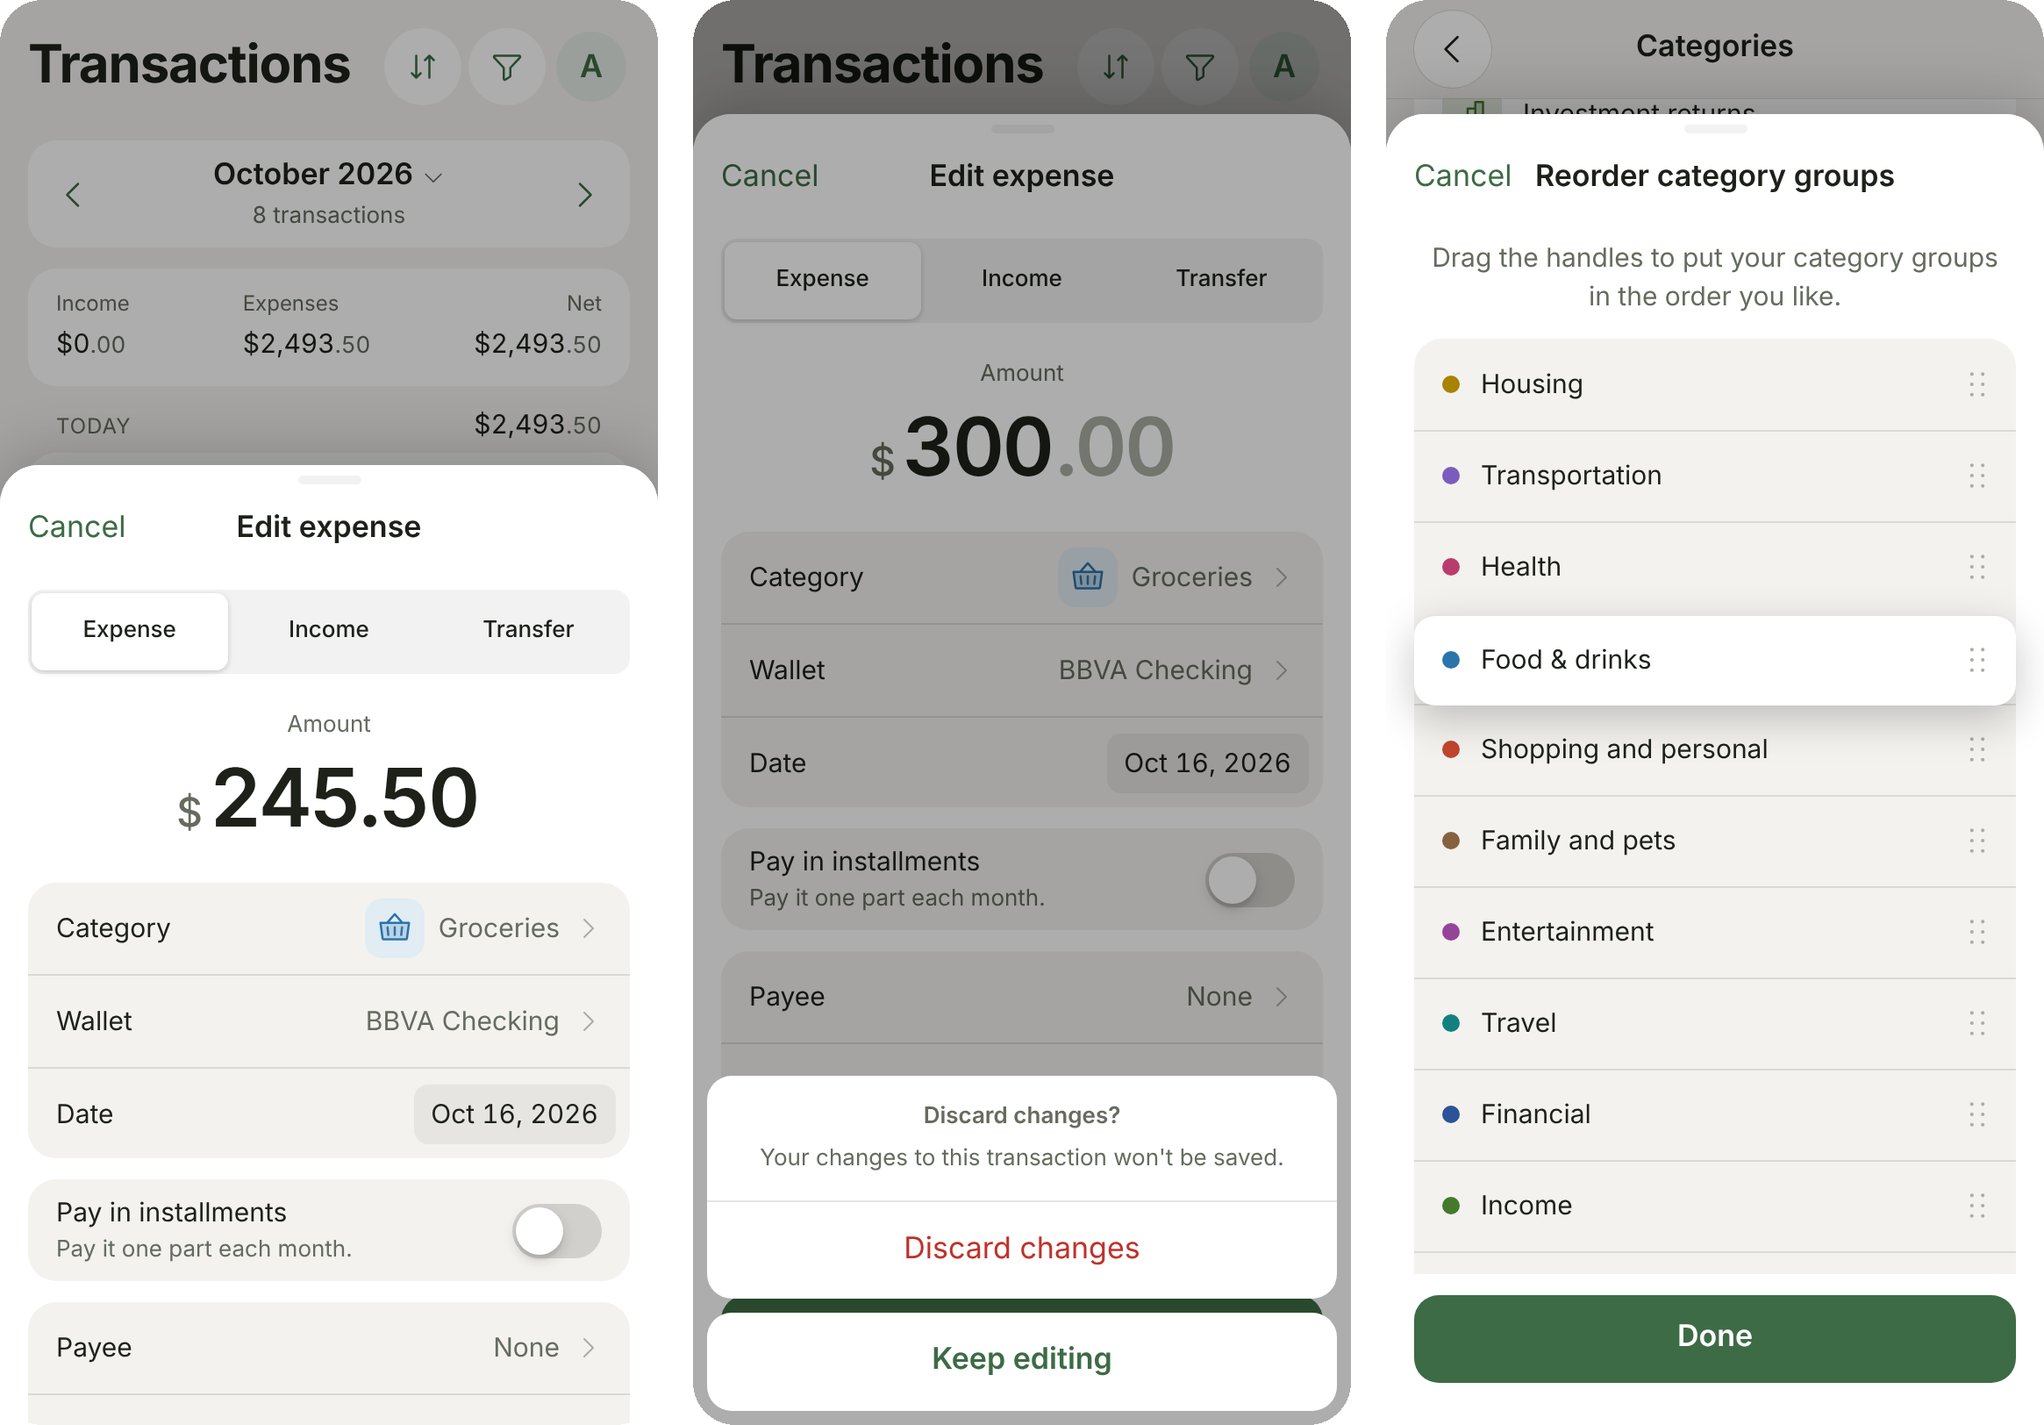
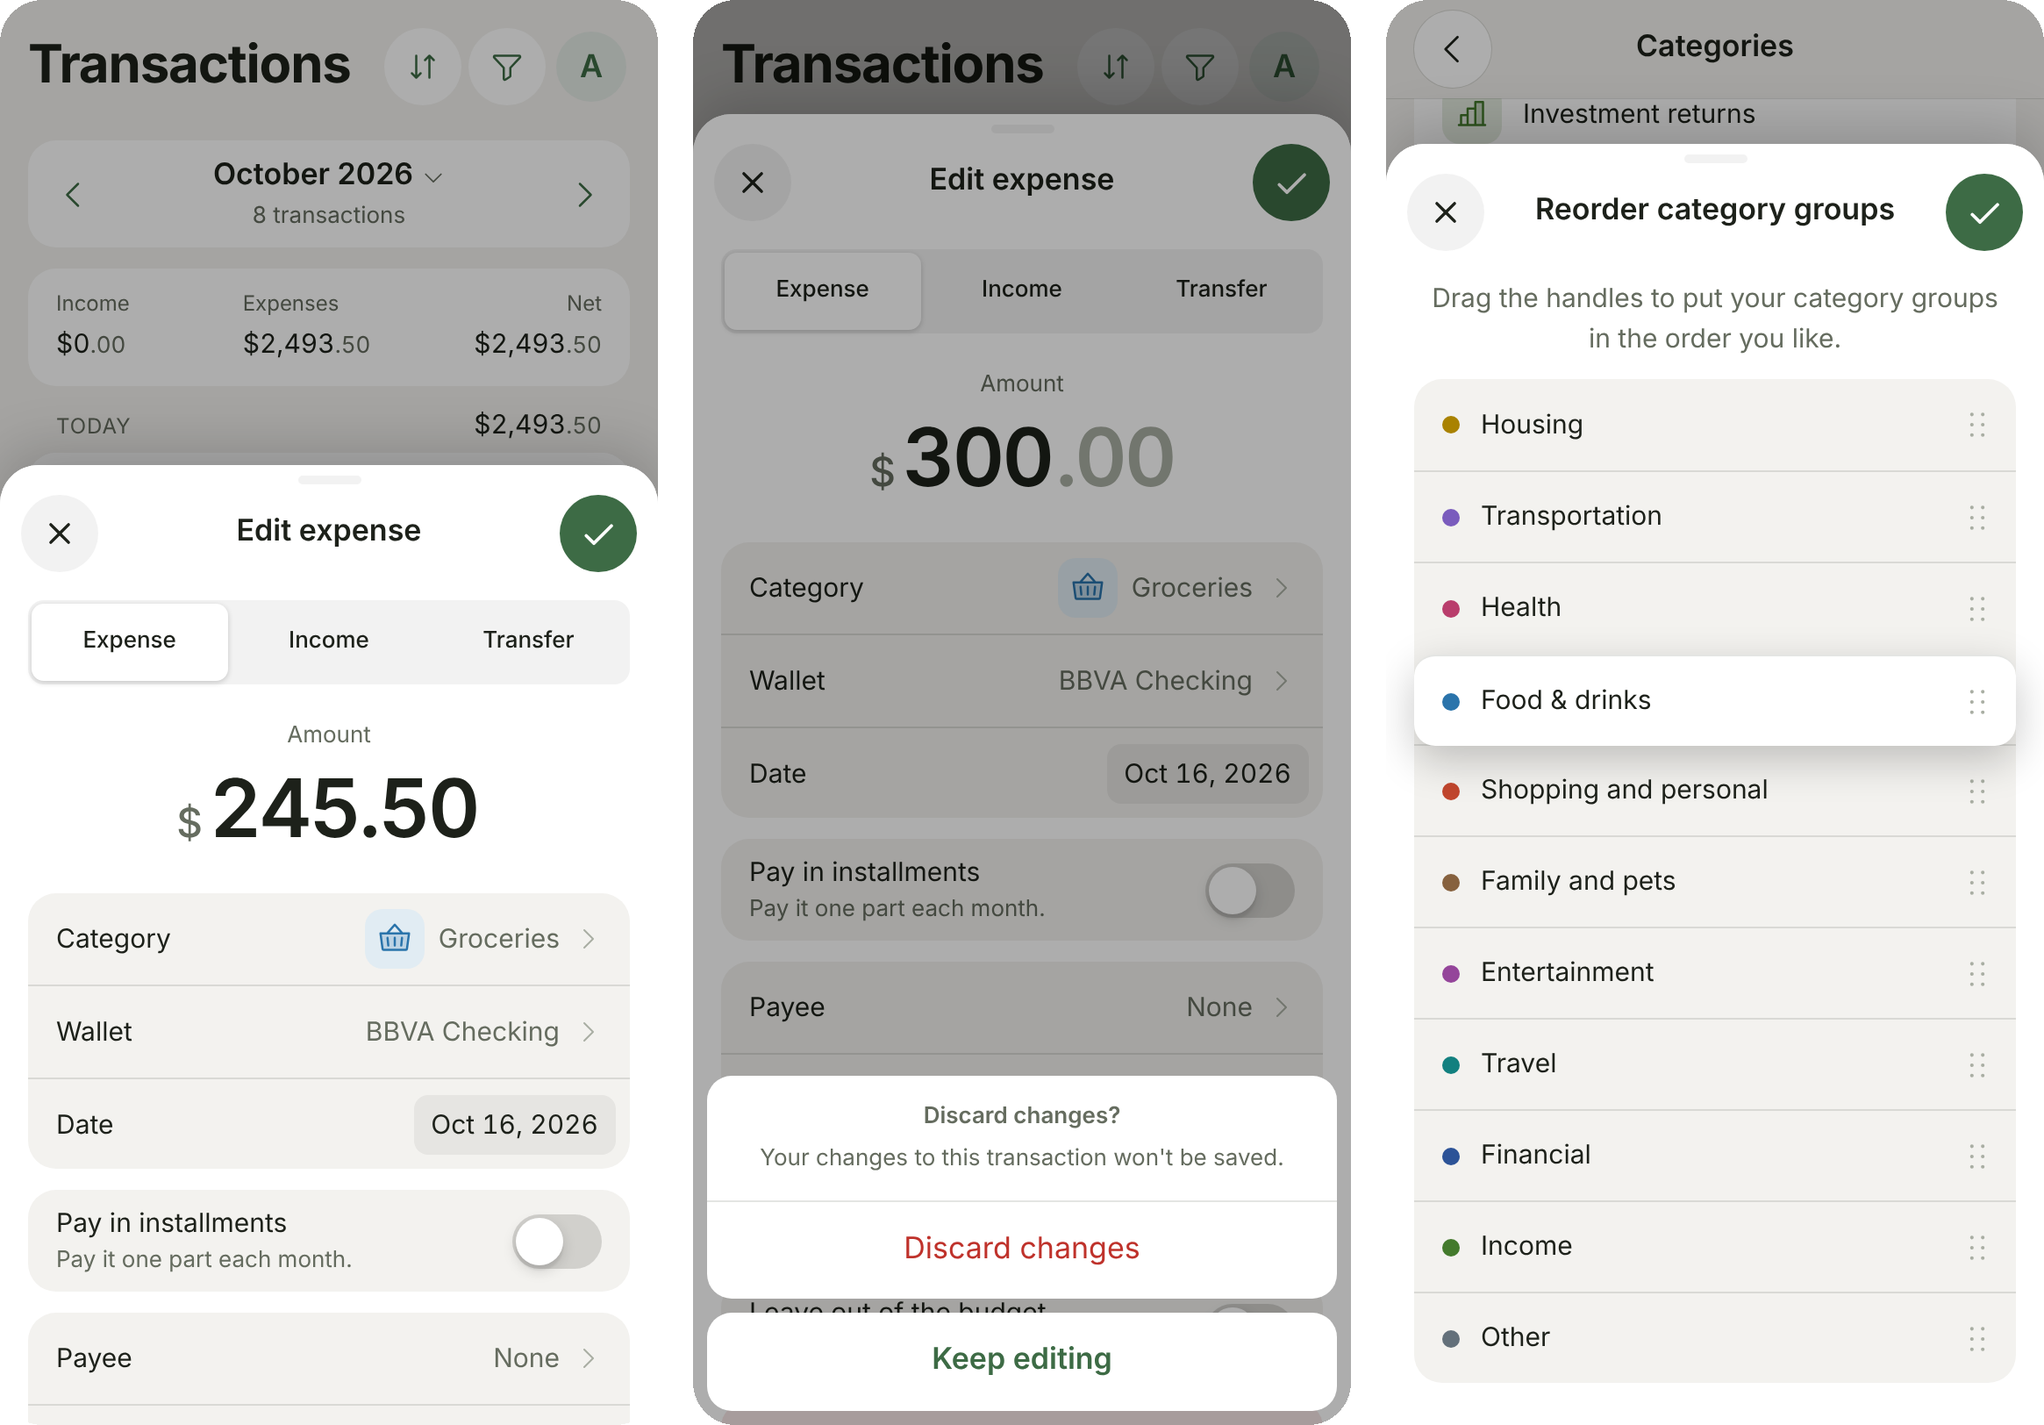
fix(web): put a sheet's close and save in round buttons in its bar
As in iOS, a sheet now closes with a round X at the top left and saves
with a round check at the top right, where it stays in view above the
keyboard. A second action such as "Save & new", an error from saving
and Delete sit at the end of the form. Settings-like sheets keep only
the check. The design language and its interactive reference say so.

Refs: DL-CMP-08, DL-MOT-02

diff --git a/apps/web/src/components/ui/sheet.tsx b/apps/web/src/components/ui/sheet.tsx
@@ -1,17 +1,21 @@
-import { type ReactNode, useId } from 'react'
+import { type ReactNode, useId, useState } from 'react'
+import { CheckIcon, XIcon } from './icons'
+import { roundButton, SheetActionSlot } from './sheet-action'
 import { useModal } from './use-modal'
 import { useSwipeDown } from './use-swipe-down'
 
 // DL-CMP-08: creating or editing opens a sheet that slides up (DL-MOT-06), with a
-// grabber, Cancel at the top left and the title in the middle; the main action goes at
-// the bottom, within reach of the thumb. On a phone, swiping it down closes it too. From 768 px it is a centered dialog
-// (DL-LAY-06). A native <dialog> keeps focus inside it and closes on Escape.
+// grabber, a round close button (X) at the top left, the title in the middle and the
+// main action as a round check at the top right, as in iOS. The bar stays in view above
+// the keyboard and while a long form scrolls. On a phone, swiping it down closes it
+// too. From 768 px it is a centered dialog (DL-LAY-06). A native <dialog> keeps focus
+// inside it and closes on Escape.
 export function Sheet(props: {
   open: boolean
   title: string
-  /** Cancel at the top left, for a sheet that creates or edits something. */
+  /** The X at the top left, for a sheet that creates or edits something; its name. */
   cancelLabel?: string
-  /** Done at the top right instead, for a settings-like or informational sheet. */
+  /** A check at the top right that only closes, for a settings-like sheet; its name. */
   doneLabel?: string
   onClose: () => void
   children: ReactNode
@@ -21,6 +25,7 @@ export function Sheet(props: {
   // While it leaves, it keeps its title and content (DL-MOT-06).
   const [ref, shown, handleClose] = useModal(open, props)
   useSwipeDown(ref, onClose)
+  const [slot, setSlot] = useState<HTMLElement | null>(null)
 
   return (
     <dialog
@@ -43,51 +48,45 @@ export function Sheet(props: {
       className="sheet m-0 mt-auto max-h-[92dvh] w-full max-w-none rounded-t-[1.375rem] bg-surface p-0 text-text shadow-[0_-8px_32px_rgb(0_0_0/18%)] md:m-auto md:max-w-[33.75rem] md:rounded-[1.375rem]"
     >
       <div className="flex flex-col pb-[max(1.5rem,env(safe-area-inset-bottom))]">
-        {/* The bar with Cancel and the title stays put while a long form scrolls. */}
-        {/* The bar is also where a swipe down starts, however far the form has scrolled. */}
+        {/* The bar stays put while a long form scrolls, and a swipe down can start on
+            it however far the form has scrolled. */}
         <div data-sheet-bar className="sticky top-0 z-10 flex flex-col bg-surface">
           <span aria-hidden className="mx-auto mt-1.5 h-[5px] w-9 rounded-full bg-fill md:hidden" />
-          <header className="grid grid-cols-[1fr_auto_1fr] items-center px-2 pt-1">
+          <header className="grid grid-cols-[2.75rem_1fr_2.75rem] items-center gap-2 px-3 pt-1.5 pb-1 md:pt-3">
             {shown?.cancelLabel ? (
               <button
                 type="button"
+                aria-label={shown.cancelLabel}
                 onClick={onClose}
-                className="min-h-11 justify-self-start rounded-xl px-2 text-[1.0625rem] text-brand focus-visible:outline-2 focus-visible:outline-brand"
+                className={`${roundButton} bg-fill text-text`}
               >
-                {shown.cancelLabel}
+                <XIcon aria-hidden weight="bold" className="size-[1.125rem]" />
               </button>
             ) : (
               <span />
             )}
-            <h2 id={titleId} className="text-center text-[1.0625rem] font-semibold">
+            <h2 id={titleId} className="truncate text-center text-[1.0625rem] font-semibold">
               {shown?.title}
             </h2>
             {shown?.doneLabel ? (
-              // DL-CMP-08: settings-like sheets put Done at the top right.
+              // DL-CMP-08: a settings-like sheet only closes, with the same check.
               <button
                 type="button"
+                aria-label={shown.doneLabel}
                 onClick={onClose}
-                className="min-h-11 justify-self-end rounded-xl px-2 text-[1.0625rem] font-semibold text-brand focus-visible:outline-2 focus-visible:outline-brand"
+                className={`${roundButton} bg-brand text-on-brand`}
               >
-                {shown.doneLabel}
+                <CheckIcon aria-hidden weight="bold" className="size-5" />
               </button>
             ) : (
-              <span />
+              <span ref={setSlot} className="contents" />
             )}
           </header>
         </div>
-        <div className="flex flex-col gap-3 px-4 pt-3">{shown?.children}</div>
+        <SheetActionSlot value={slot}>
+          <div className="flex flex-col gap-3 px-4 pt-3">{shown?.children}</div>
+        </SheetActionSlot>
       </div>
     </dialog>
-  )
-}
-
-// DL-CMP-08: the main action at the bottom of a sheet, in reach of the thumb. It stays
-// in view while a long form scrolls under it.
-export function SheetFooter({ children }: { children: ReactNode }) {
-  return (
-    <div className="sticky bottom-0 -mx-4 mt-1 mb-[calc(-1*max(1.5rem,env(safe-area-inset-bottom)))] flex flex-col gap-2 bg-surface px-4 pt-3 pb-[max(1.5rem,env(safe-area-inset-bottom))]">
-      {children}
-    </div>
   )
 }

diff --git a/apps/web/src/components/ui/submit-button.tsx b/apps/web/src/components/ui/submit-button.tsx
@@ -1,11 +1,13 @@
-import type { ReactNode, RefObject } from 'react'
-import { Button } from './button'
+import { type ReactNode, type RefObject, use } from 'react'
+import { createPortal } from 'react-dom'
 import { CheckIcon } from './icons'
-import { SheetFooter } from './sheet'
+import { roundButton, SheetActionSlot } from './sheet-action'
 
-// DL-CMP-08, DL-PAT-02: a sheet's main action, at the bottom. It stays tappable while
-// fields are missing, so tapping it can show which (useSubmit); after a save it turns
-// into a check before the sheet slides away (DL-MOT-02, DL-MOT-05).
+// DL-CMP-08, DL-PAT-02: a sheet's main action, the round check at the top right of its
+// bar, where it stays in view above the keyboard. It stays tappable while fields are
+// missing, so tapping it can show which (useSubmit); after a save the check pops before
+// the sheet slides away (DL-MOT-02, DL-MOT-05). Anything else, such as an error from
+// saving or a second action like "Save & new", sits at the end of the form.
 export function SubmitButton({
   button,
   done,
@@ -19,37 +21,39 @@ export function SubmitButton({
   done: boolean
   pending: boolean
   onClick: () => void
+  /** The action's name, such as "Save", read out by screen readers. */
   children: string
-  /** Shown above the button, such as an error from saving. */
+  /** Shown at the end of the form, such as an error from saving. */
   before?: ReactNode
-  /** A tinted second action to its left, such as "Save & new" (DL-CMP-05). */
+  /** A tinted second action at the end of the form, such as "Save & new" (DL-CMP-05). */
   secondary?: ReactNode
 }) {
+  const slot = use(SheetActionSlot)
+  const action = (
+    <button
+      ref={button}
+      type="button"
+      aria-label={children}
+      aria-disabled={pending || done || undefined}
+      onClick={() => {
+        if (!pending && !done) onClick()
+      }}
+      className={`${roundButton} bg-brand text-on-brand ${pending ? 'opacity-60' : ''}`}
+    >
+      <CheckIcon
+        // A new check on a good save, so it pops in again (DL-MOT-05).
+        key={done ? 'done' : 'ready'}
+        aria-hidden
+        weight="bold"
+        className={`size-5 ${done ? 'animate-[check-in_260ms_cubic-bezier(0.32,0.72,0,1)]' : ''}`}
+      />
+    </button>
+  )
   return (
     <>
+      {slot && createPortal(action, slot)}
       {before}
-      <SheetFooter>
-        <div className="flex gap-2.5">
-          {secondary}
-          <Button
-            ref={button}
-            className="relative flex-1"
-            aria-disabled={pending || done || undefined}
-            onClick={() => {
-              if (!pending && !done) onClick()
-            }}
-          >
-            <span className={done ? 'invisible' : ''}>{children}</span>
-            {done && (
-              <CheckIcon
-                aria-hidden
-                weight="bold"
-                className="absolute size-6 animate-[check-in_260ms_cubic-bezier(0.32,0.72,0,1)]"
-              />
-            )}
-          </Button>
-        </div>
-      </SheetFooter>
+      {secondary && <div className="mt-1 flex gap-2.5">{secondary}</div>}
     </>
   )
 }

diff --git a/docs/design-language.html b/docs/design-language.html
@@ -587,14 +587,26 @@
     align-items: center;
     min-height: 44px;
   }
-  .sheethead span:first-child {
-    color: var(--brand);
-  }
   .sheethead b {
     font-weight: 600;
   }
-  .sheethead span:last-child {
-    width: 50px;
+  /* DL-CMP-08: round X at the top left, the main action as a round check at the right */
+  .sheethead .rb {
+    width: 36px;
+    height: 36px;
+    border-radius: 50%;
+    display: grid;
+    place-items: center;
+    background: var(--fill);
+    color: var(--text);
+  }
+  .sheethead .rb.go {
+    background: var(--brand);
+    color: var(--onbrand);
+  }
+  .sheethead .rb svg {
+    width: 16px;
+    height: 16px;
   }
   .segc {
     display: flex;
@@ -1301,11 +1313,13 @@
       'Quick-add with a field error',
       'CMP-05, CMP-08, CMP-09, CMP-11, PAT-05',
       '<div class="screen" style="opacity:.0"></div><div class="sheetwrap"><div class="sheet tall"><div class="grabber"></div>' +
-        '<div class="sheethead"><span>' +
+        '<div class="sheethead"><span class="rb" role="img" aria-label="' +
         t('cancel') +
-        '</span><b>' +
+        '"><svg viewBox="0 0 256 256" aria-hidden="true"><path d="M200 56 56 200M56 56l144 144" stroke="currentColor" stroke-width="24" stroke-linecap="round" fill="none"/></svg></span><b>' +
         t(['newexp', 'newinc', 'newtra'][ST.mode]) +
-        '</b><span></span></div>' +
+        '</b><span class="rb go" role="img" aria-label="' +
+        t('save') +
+        '"><svg viewBox="0 0 256 256" aria-hidden="true"><path d="m40 144 56 56L216 72" stroke="currentColor" stroke-width="24" stroke-linecap="round" stroke-linejoin="round" fill="none"/></svg></span></div>' +
         '<div class="segc" role="group">' +
         ['expense', 'income', 'transferT']
           .map(function (k, i) {
@@ -1357,8 +1371,6 @@
         '</div>' +
         '<div class="btns"><span class="btn tinted">' +
         t('savenew') +
-        '</span><span class="btn disabled">' +
-        t('save') +
         '</span></div></div></div>',
     )
     // 4. Swipe

diff --git a/apps/web/src/components/ui/sheet-action.ts b/apps/web/src/components/ui/sheet-action.ts
@@ -1,0 +1,9 @@
+import { createContext } from 'react'
+
+/** Where a sheet's main action goes: the round check at the top right of its bar. */
+export const SheetActionSlot = createContext<HTMLElement | null>(null)
+
+// DL-CMP-08: a round button in a sheet's bar, as in iOS: a plain `fill` circle for
+// closing, a `brand` one for the main action. 44 px to tap (DL-A11Y-05).
+export const roundButton =
+  'grid size-11 shrink-0 place-items-center rounded-full focus-visible:outline-2 focus-visible:outline-offset-2 focus-visible:outline-brand'

diff --git a/apps/web/src/index.css b/apps/web/src/index.css
@@ -610,7 +610,7 @@ body {
     translate: 0 0.75rem;
   }
 }
-/* DL-MOT-05: Save turns into a check. */
+/* DL-MOT-05: the Save check pops. */
 @keyframes check-in {
   from {
     opacity: 0;

diff --git a/docs/design-language.md b/docs/design-language.md
@@ -390,7 +390,7 @@ The 12 colors people can choose for wallets, category groups and tags, in the or
 
 **DL-MOT-01** Motion confirms what happened and shows where things went. It never decorates.
 
-**DL-MOT-02** Saving a transaction plays one short sequence: the Save button turns into a check, the sheet slides away, and the new row opens into its list with a highlight that fades. The whole sequence takes under one second.
+**DL-MOT-02** Saving a transaction plays one short sequence: the round Save check pops, the sheet slides away, and the new row opens into its list with a highlight that fades. The whole sequence takes under one second.
 
 **DL-MOT-03** No animation blocks input. The next action, such as opening quick-add again, works the moment it is tapped, even while the previous animation is finishing. *Why:* people log expenses in a hurry. Motion that makes them wait stops being a flourish and becomes an obstacle.
 
@@ -400,7 +400,7 @@ The 12 colors people can choose for wallets, category groups and tags, in the or
 
 | Step | Duration | Easing |
 |---|---|---|
-| Save turns into a check | 260 ms | `cubic-bezier(.32,.72,0,1)` |
+| The Save check pops | 260 ms | `cubic-bezier(.32,.72,0,1)` |
 | Sheet slides away | 420 ms | `cubic-bezier(.32,.72,0,1)` |
 | New row opens into the list | 360 ms | `cubic-bezier(.32,.72,0,1)` |
 | Row highlight fades | 1.4 s | ease-out, runs in the background |
@@ -517,7 +517,7 @@ Full-width buttons are 50 px tall; any button is at least 44 px. A destructive b
 
 **DL-CMP-07** **List rows.** Rows sit in inset lists (a `surface` card with 16 px corners), at least 52 px tall: icon tile, title, an optional second line in `text-muted`, and a value or amount on the right. A chevron appears only when the row opens another screen. Tapping a row opens it, which is also where it is edited. A transaction row never says its type: its amount does (DL-NUM-03). Its title is the payee, else the note, else the category; the second line holds the category when the title is something else, then the wallet. Swiping a row to the left is only for deleting, as in iOS. A short swipe slides the row aside and leaves a small red Delete pill showing; tapping the pill deletes the row. A long swipe deletes it straight away. Tapping anywhere else closes the pill. Delete can also be reached from the row's own screen (DL-A11Y-07).
 
-**DL-CMP-08** **Sheets.** Creating or editing something opens a sheet that slides up, with a grabber, Cancel at the top left, the title in the middle, and the main action as a filled button at the bottom, within reach of the thumb. Settings-like sheets put Done at the top right instead. On a phone, the sheet follows the finger down and closes when let go far or fast enough. The pull starts from the grabber and title bar at any time, and from the content once it is scrolled to the top. A sheet with unsaved changes springs back instead and an action sheet asks "Discard changes?". Cancel stays too, as in iOS: not everyone knows the gesture, and it is the only way out on a computer.
+**DL-CMP-08** **Sheets.** Creating or editing something opens a sheet that slides up, with a grabber and a bar across the top, as in iOS: a round close button (an X on `fill`) at the top left, the title in the middle, and the main action as a round check on `brand` at the top right. The bar stays in view while the form scrolls and above the keyboard, so the check is always one tap away. Anything else goes at the end of the form: a second action such as "Save & new" as a tinted button, and Delete. Settings-like sheets that only close have the check alone. On a phone, the sheet follows the finger down and closes when let go far or fast enough. The pull starts from the grabber and bar at any time, and from the content once it is scrolled to the top. A sheet with unsaved changes springs back instead and an action sheet asks "Discard changes?". The X stays too, as in iOS: not everyone knows the gesture, and it is the only way out on a computer.
 
 **DL-CMP-09** **Fields.** Fields are rows in an inset list, as in iOS Settings: label on the left, value on the right, chevron when it opens a picker. Free text fields use the `inset` fill. The amount is entered as a big number with the decimal keypad. A field's error appears right under it in `warning` (DL-PAT-05), only after Save was tapped (DL-PAT-02). A field being typed in shows only its caret, in `brand`, never a box around it, as in iOS. What a field is for goes in a short hint right under it, never behind an (i) button. Rules a value must meet, such as a password's, appear as a checklist under the field once it is used, tick off as they are met and fold away only when all are met, never when the field loses focus, so nothing under them moves while the finger reaches for it.
 
